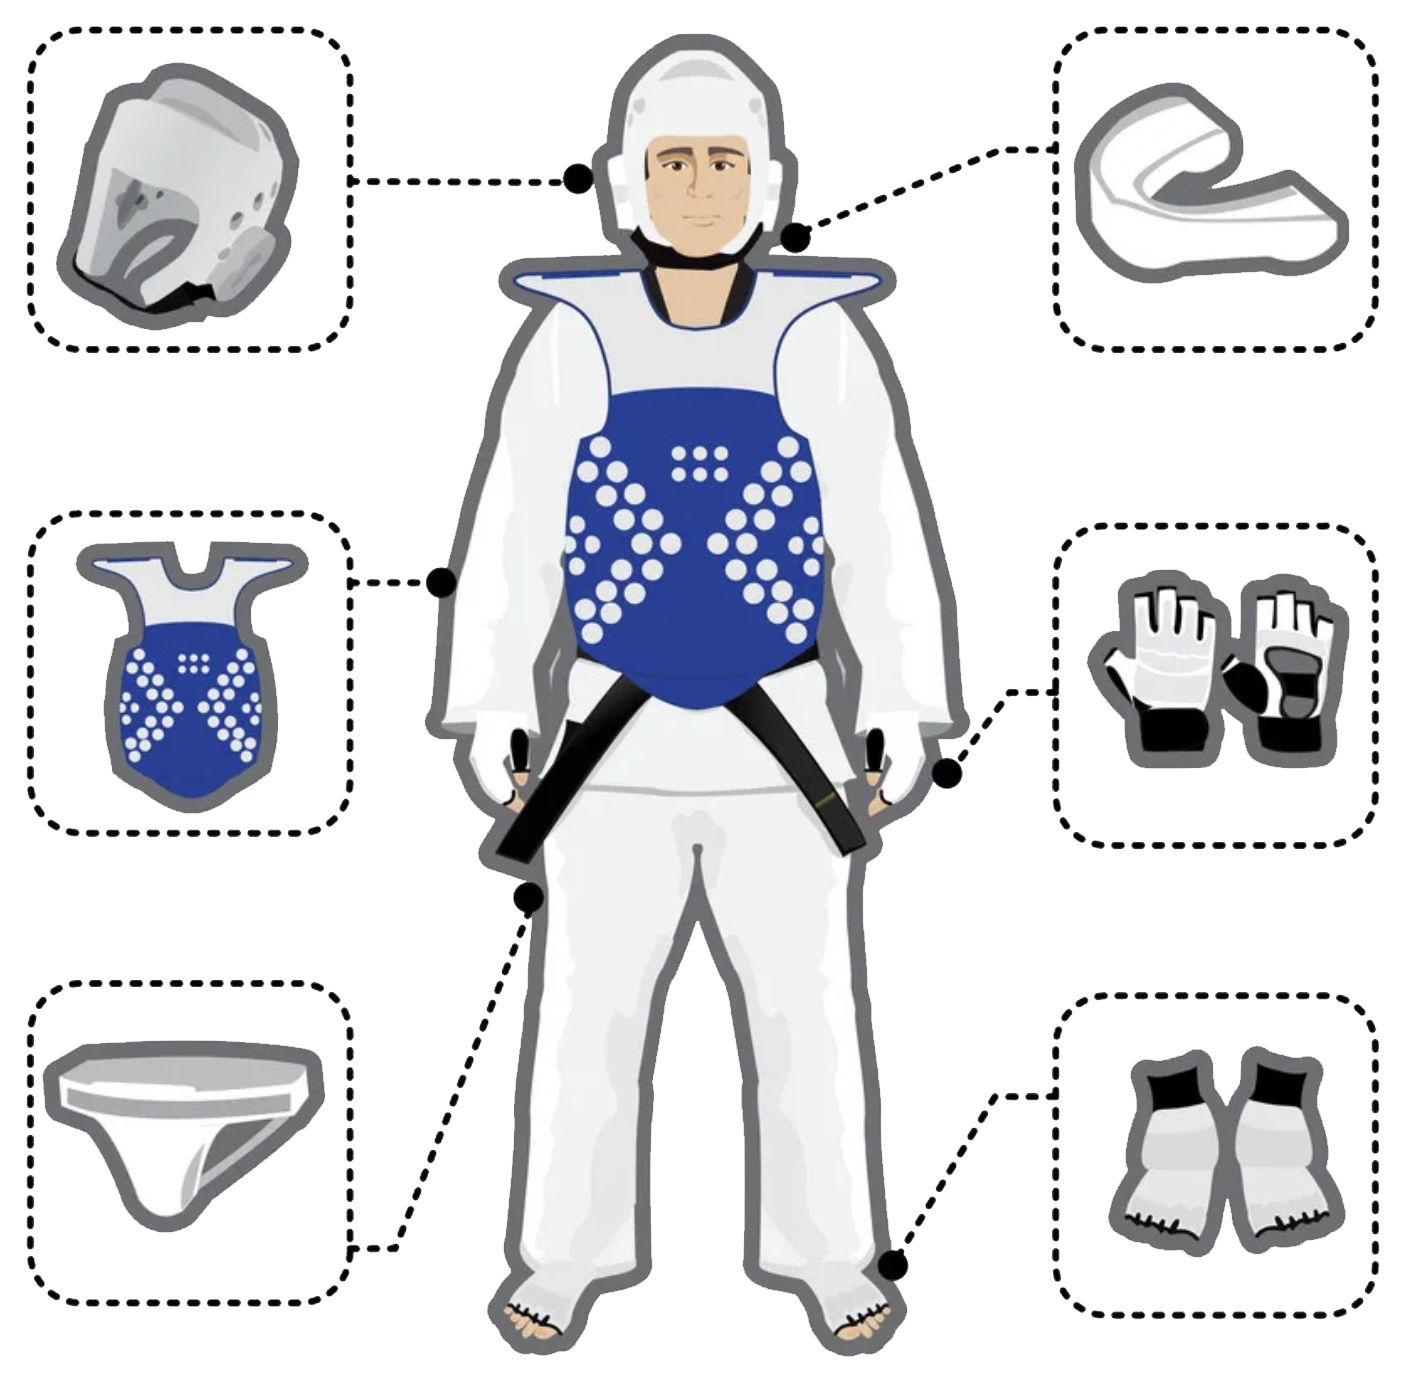
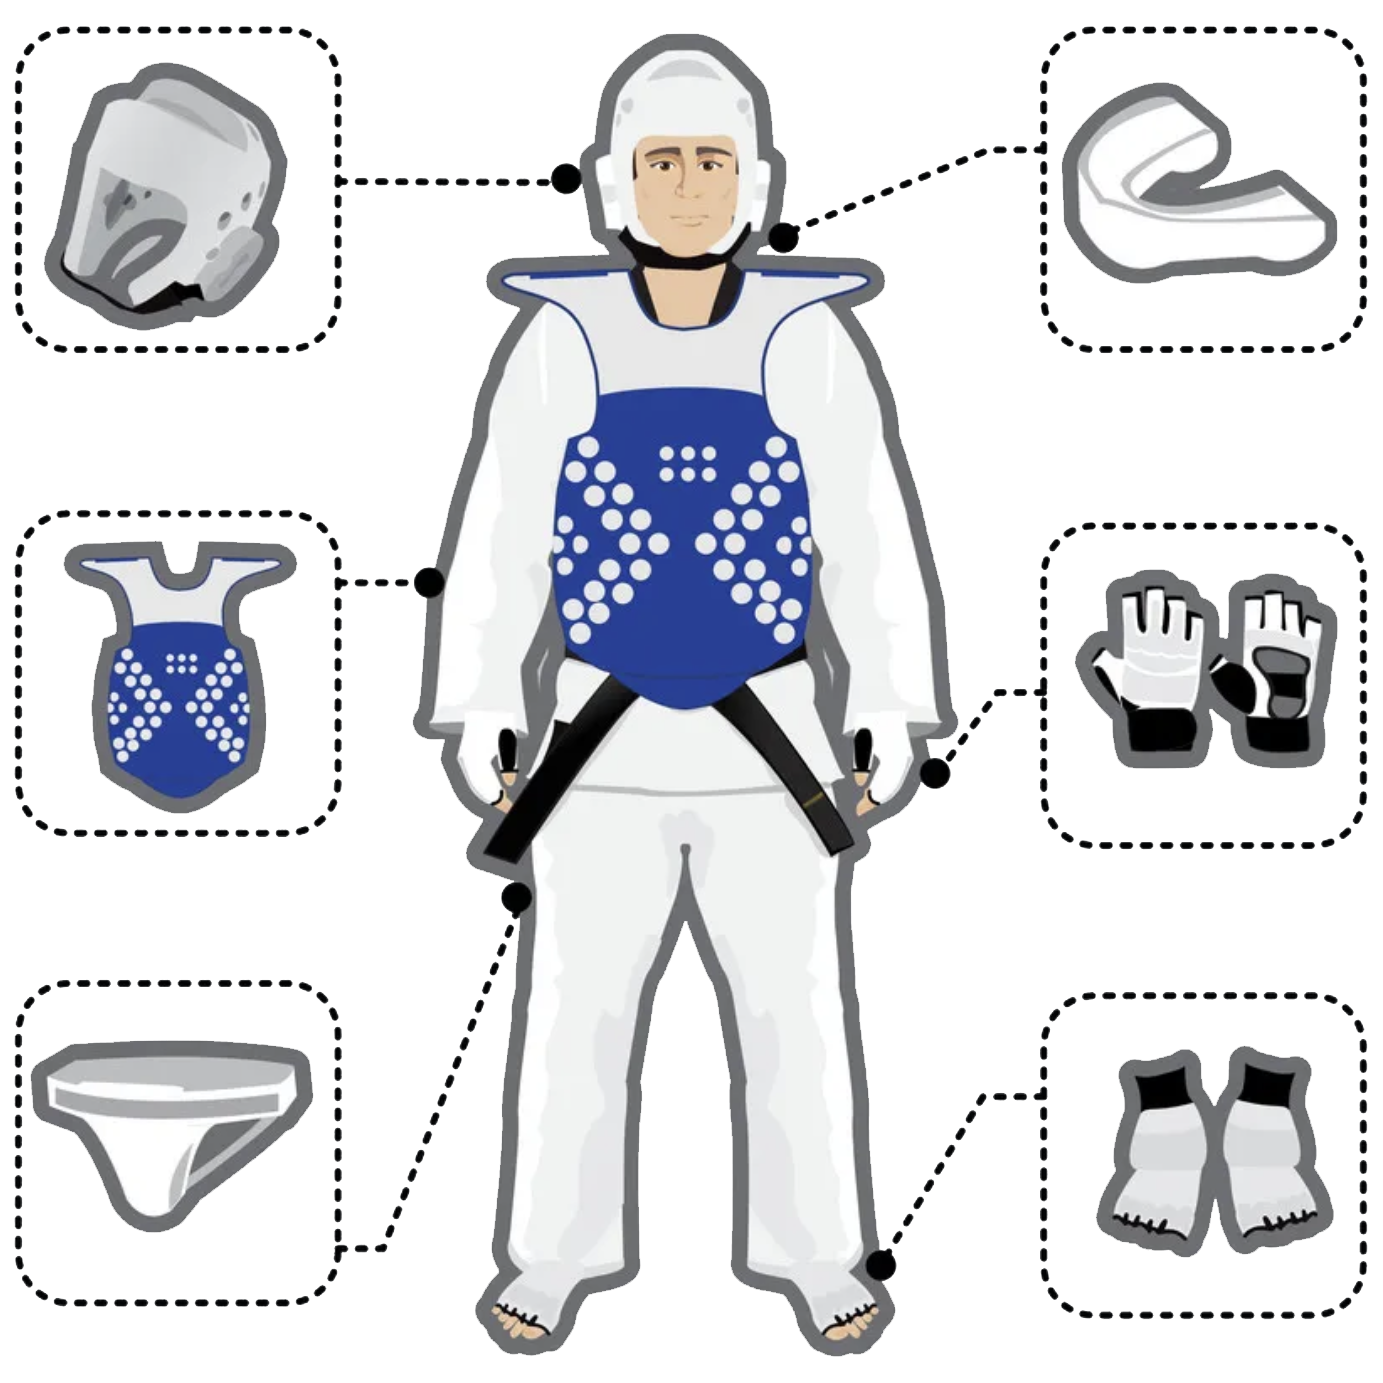
1

diff --git a/pages/06-gear/index.js b/pages/06-gear/index.js
@@ -11,7 +11,7 @@ const Gear = () => (
   </Head>
   <Heading text="Экипировка" />
   <div className='image'>
-    <Image style={{backgroundColor: '#fff'}} src={Equip} alt='Экипировка' objectFit='contain' layout='fill'/>
+    <Image src={Equip} alt='Экипировка' objectFit='contain' layout='fill'/>
   </div>
 
   </>

diff --git a/styles/globals.css b/styles/globals.css
@@ -131,7 +131,6 @@ li {
 .image {
   width: auto;
   height: 100%;
-  padding: 20px;
   position: relative;
 }
 
@@ -143,8 +142,8 @@ li {
   }
 
   .image {
-    padding: 0px;
-    background-color: #434546;
+    height: 100vw;
+    position: relative;
   }
 
 }
